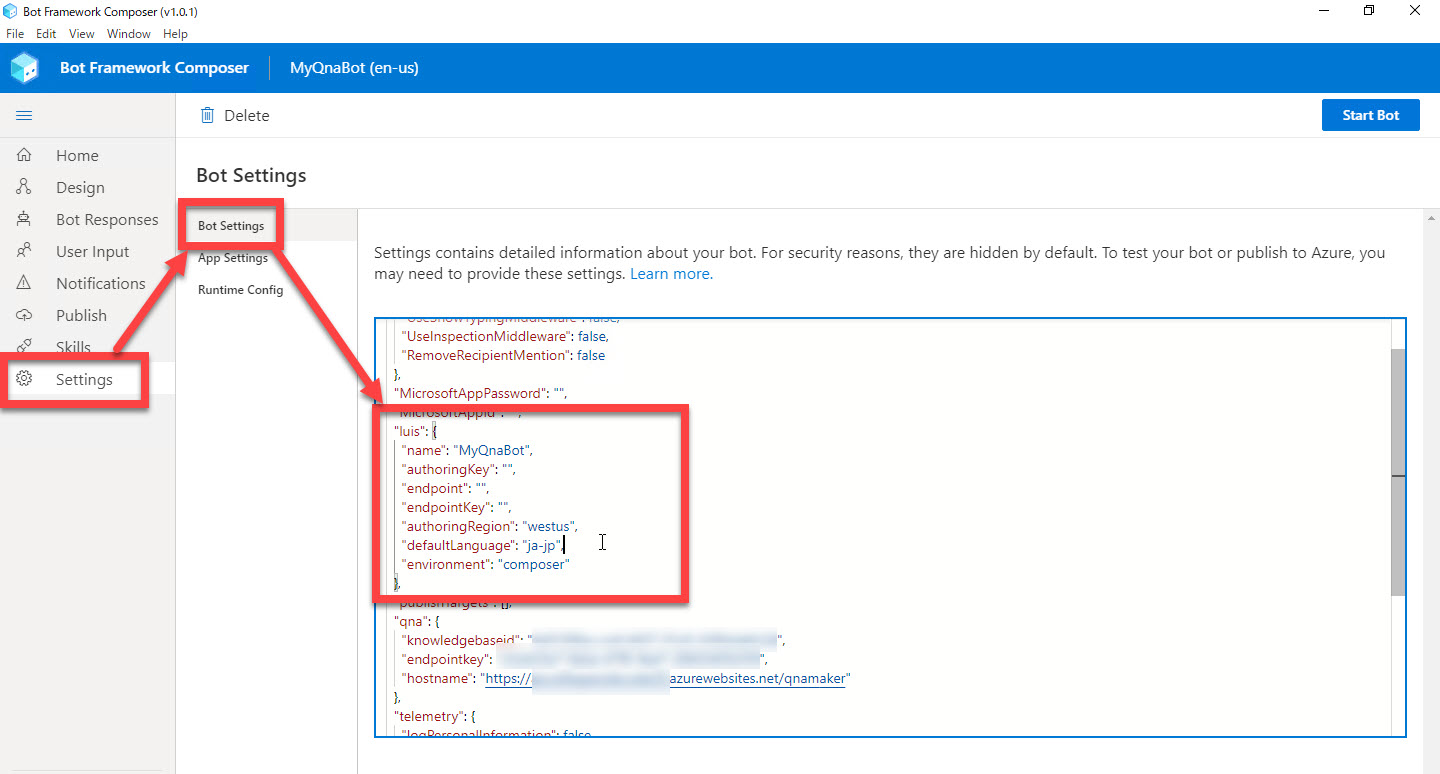
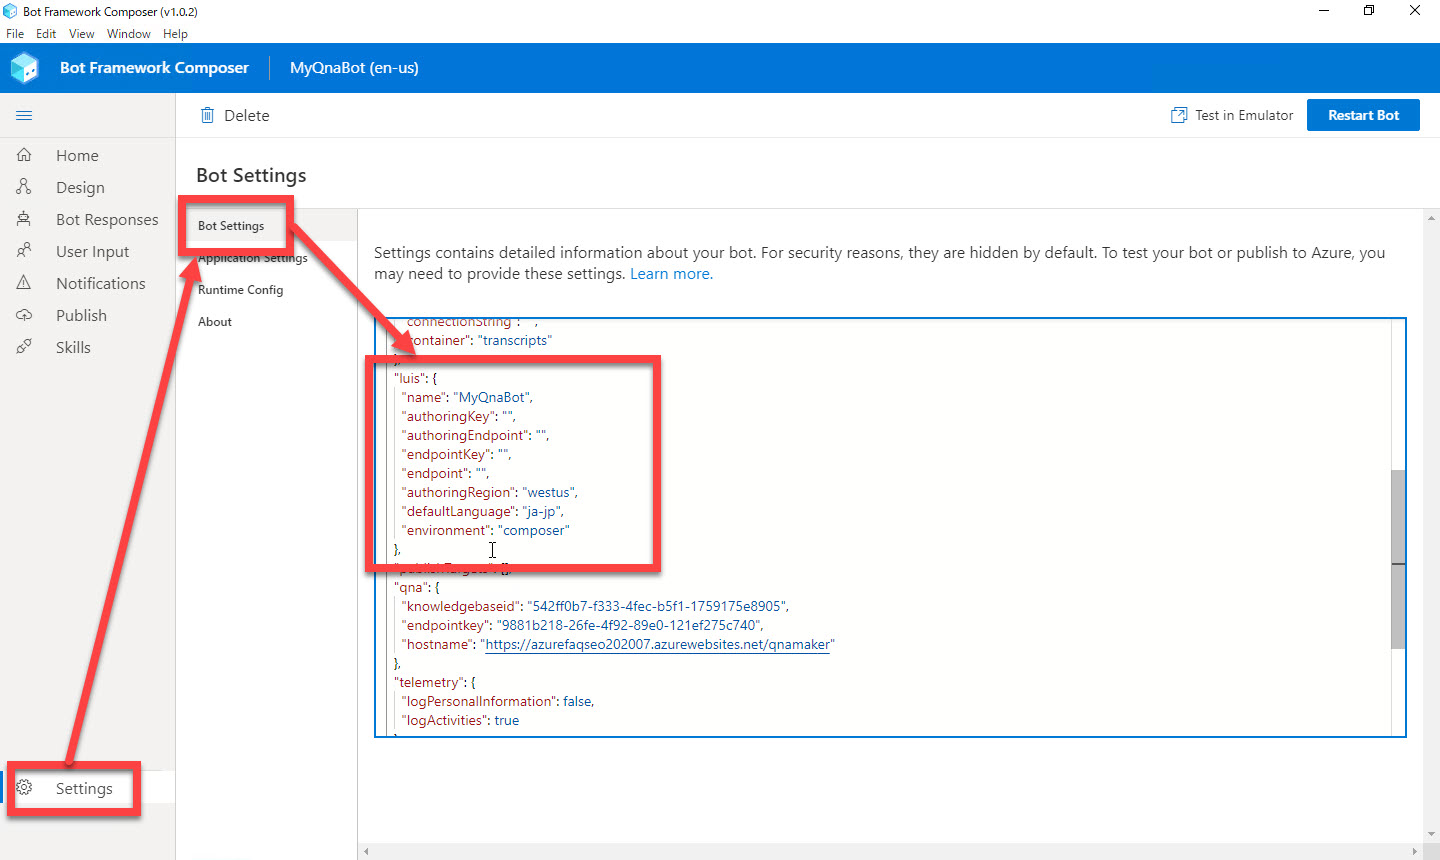
Update Chapter 6 for Composer 1.0.2
Chapter 6 を Composer 1.0.2 用に改訂

diff --git a/docs/06_composer_luis.md b/docs/06_composer_luis.md
@@ -23,7 +23,7 @@ LUIS (Language Understanding) とは、自然言語の入力に対して、
 > "Language Understanding" はプレビューでは "LUIS" と呼ばれていました。  
 > GA して Language Understanding と名称が変わりましたが、ドキュメントやライブラリにも LUIS という表記が残っていたり、サービスが GA した後も LUIS と呼ばれることが多くあります。
 
-> Bot Framework Composer v1.0.1 では日本語対応した LUIS アプリケーションは作成されません。  
+> Bot Framework Composer v1.0.2 では日本語対応した LUIS アプリケーションは作成されません。  
 > 必ず "en-us" になります。  
 >
 > 以下では、今後の日本語対応を見越した手順を記載しています。
@@ -147,6 +147,11 @@ Bot アプリケーションを LUIS に接続して Bot 再起動します。
    など、LUIS または QnA Maker で処理されます。
 
    ![](./images/06/bfemu_test_qna_and_luis.jpg)
+
+2. "ヘルプ" などと入力した際には LUIS で入力の意図を類推していることを確認します。
+ 
+   Bot Framework Emulator での見た目は正規表現を使っていた時と同じに見えるかもしれません。  
+   Emulator の右下のトレースを見ると、今回は確かに "LUIS" への問い合わせが実行されていることがわかります。
 
 ---
 
